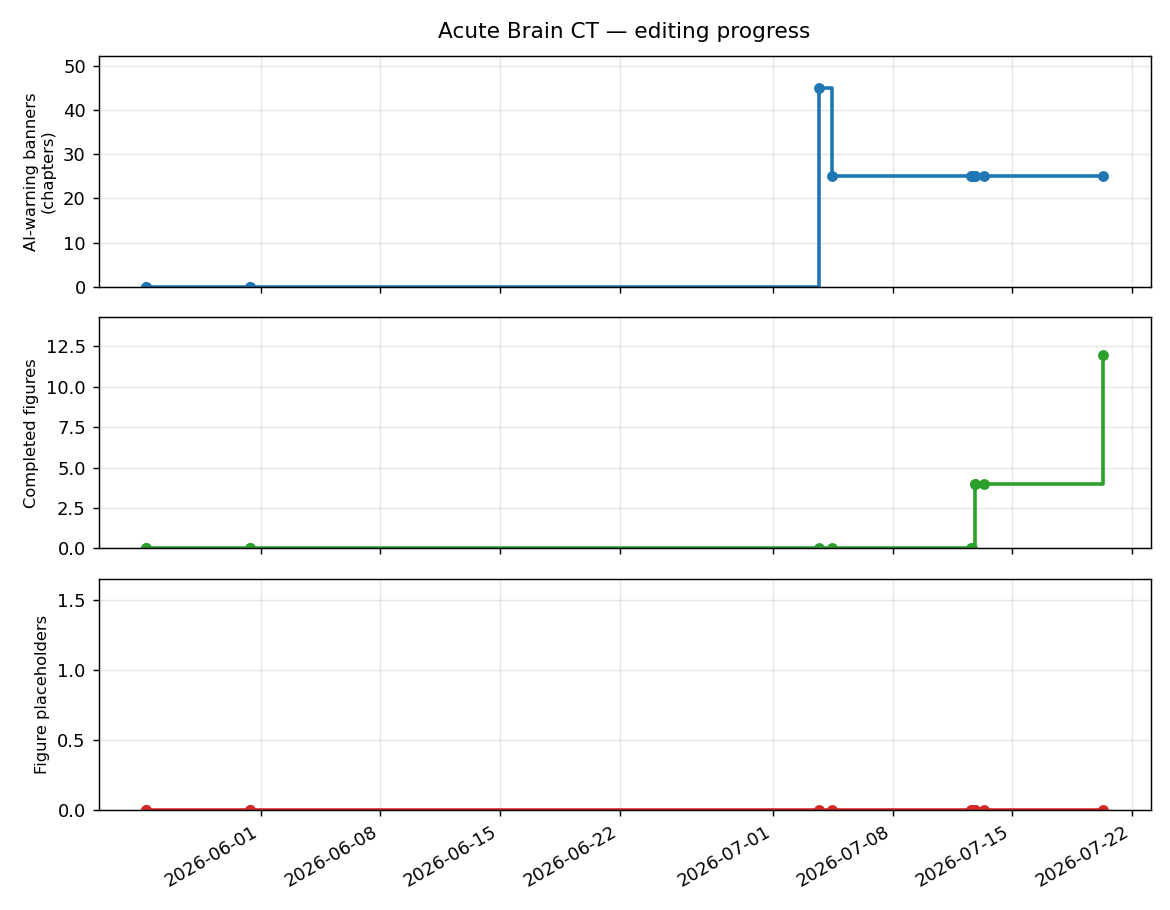
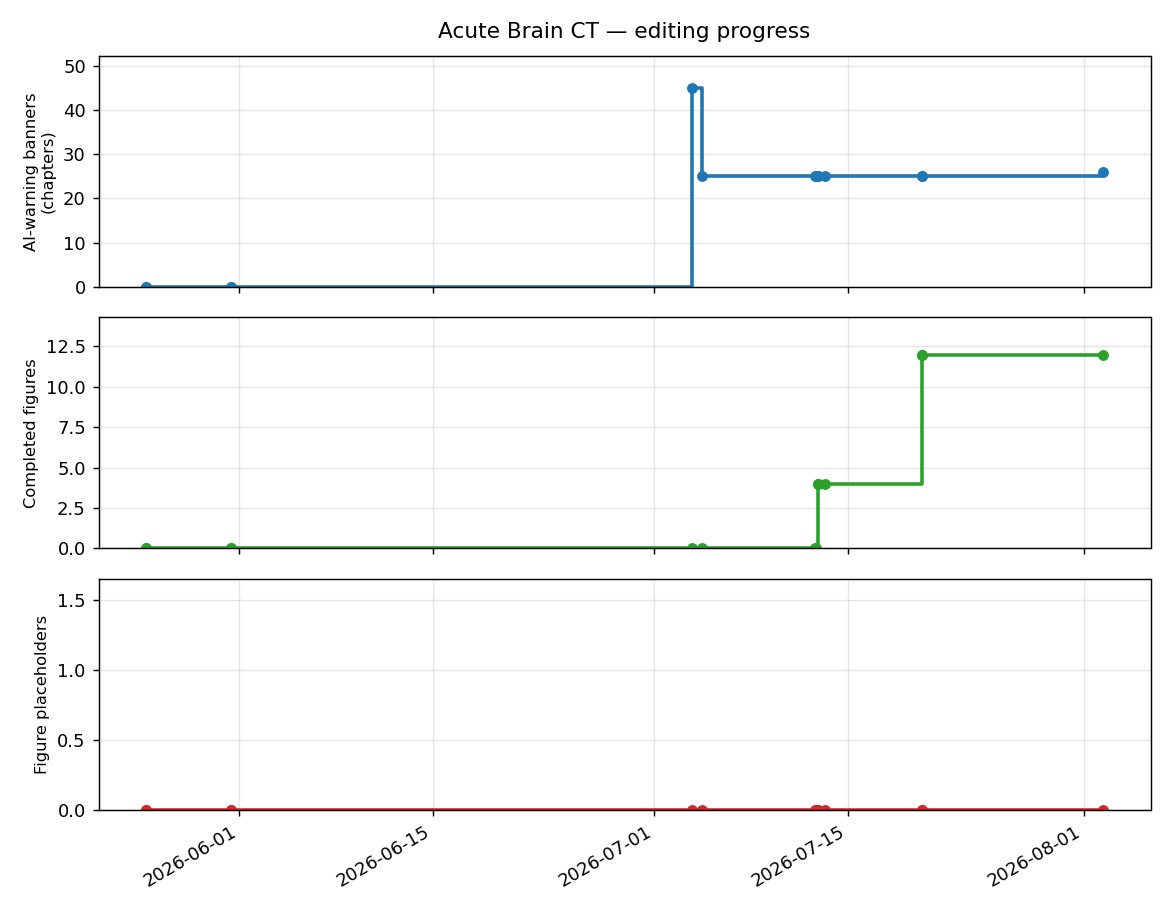
Update atlas Progress page

diff --git a/docs/progress.md b/docs/progress.md
@@ -8,14 +8,14 @@ nav_order: 999
 
 _Auto-generated from the publication git history of the Acute Brain CT site. This page tracks editing progress and is **not** clinical content._
 
-Generated 2026-07-20 08:05 · 12 commit(s) tracked (2026-05-25 → 2026-07-20).
+Generated 2026-08-02 10:10 · 14 commit(s) tracked (2026-05-25 → 2026-08-02).
 
-![Acute Brain CT editing progress over time]({{ '/docs/img/progress_ctb.png' | relative_url }}?v=12-25-12-0)
+![Acute Brain CT editing progress over time]({{ '/docs/img/progress_ctb.png' | relative_url }}?v=14-26-12-0)
 
 ## Latest counts
 
 | Signal | Count |
 |---|---:|
-| AI-warning banners (chapters) | 25 |
+| AI-warning banners (chapters) | 26 |
 | Completed figures | 12 |
 | Figure placeholders remaining | 0 |
